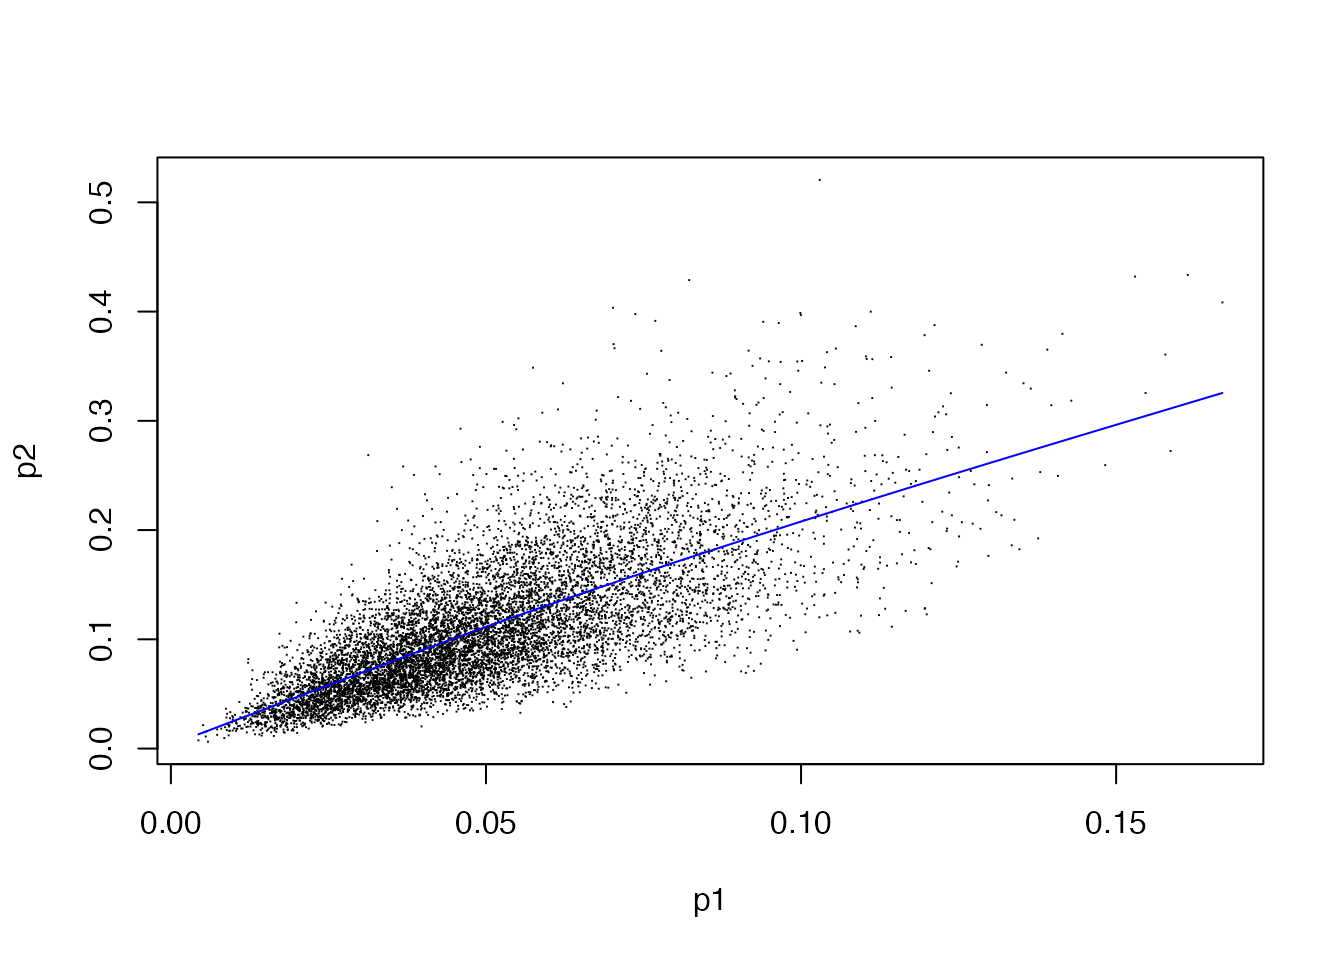
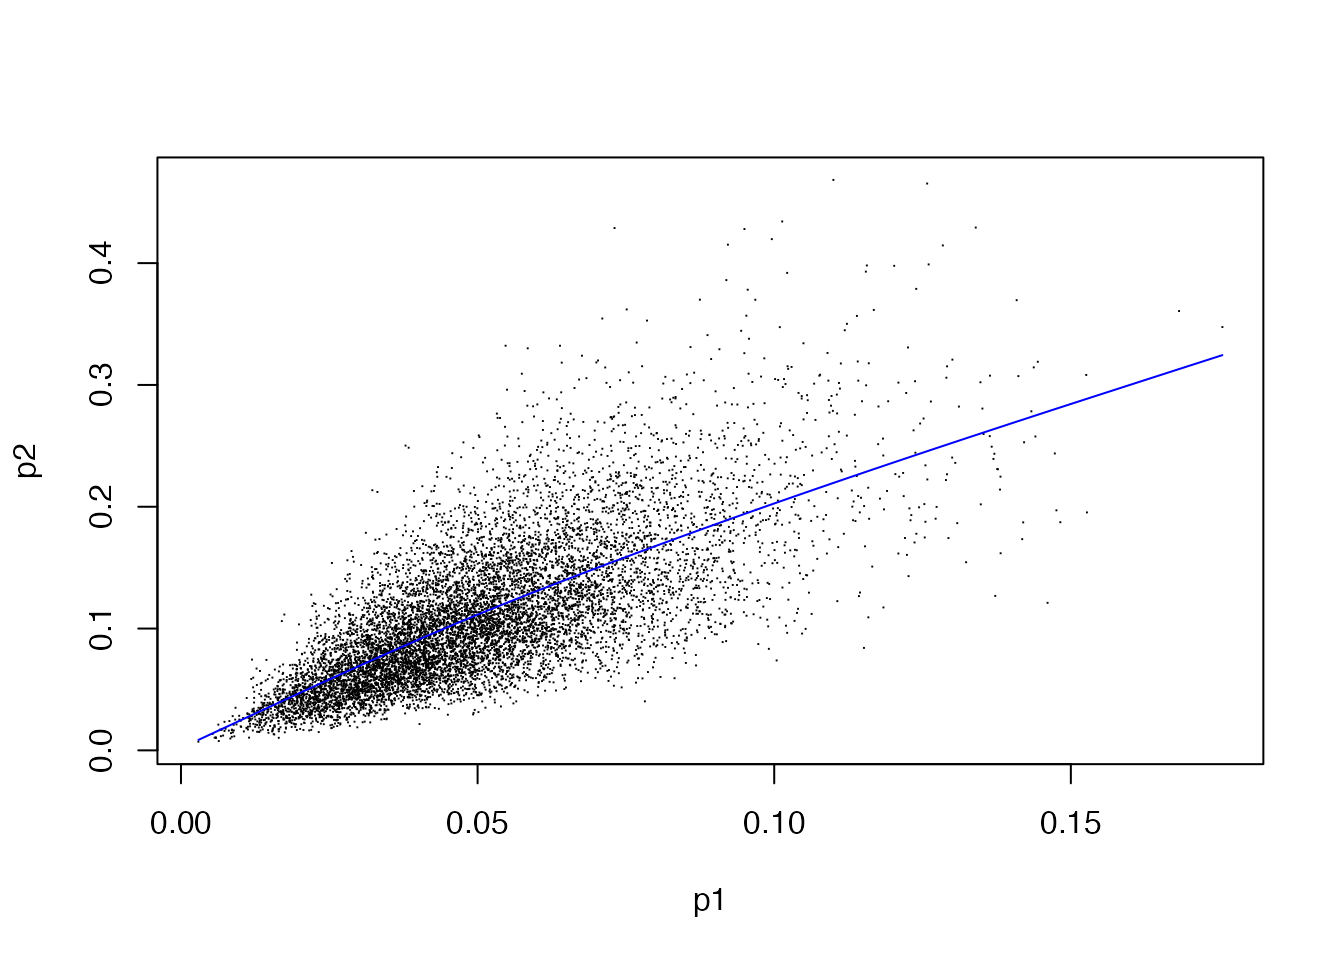
Built site for voi: 0.1@a2dfaf1

diff --git a/articles/voi.html b/articles/voi.html
@@ -474,8 +474,10 @@ A challenge of estimating EVPPI using GAMs is to define a GAM that is sufficient
 <code class="sourceCode R"><span><span class="fu"><a href="../reference/evsi.html">evsi</a></span><span class="op">(</span><span class="va">outputs_nb</span>, <span class="va">inputs</span>, study <span class="op">=</span> <span class="st">"normal_known"</span>, n<span class="op">=</span><span class="fl">10000</span>, pars <span class="op">=</span> <span class="st">"p1"</span>, method<span class="op">=</span><span class="st">"mm"</span>, Q<span class="op">=</span><span class="fl">30</span>,</span>
 <span>     model_fn <span class="op">=</span> <span class="va">model_fn_nb</span>, par_fn <span class="op">=</span> <span class="va">par_fn</span>,</span>
 <span>     analysis_args <span class="op">=</span> <span class="fu"><a href="https://rdrr.io/r/base/list.html" class="external-link">list</a></span><span class="op">(</span>prior_mean<span class="op">=</span><span class="fl">1</span>, prior_sd<span class="op">=</span><span class="fl">1</span>, sampling_sd<span class="op">=</span><span class="fl">1</span>, niter<span class="op">=</span><span class="fl">1000</span><span class="op">)</span><span class="op">)</span></span></code></pre></div>
-<pre><code><span><span class="co">##       n       evsi      evppi</span></span>
-<span><span class="co">## 1 10000 0.05094176 0.08210074</span></span></code></pre>
+<pre><code><span><span class="co">## Warning in evsi_mm_nb(outputs, inputs = inputs, pars = pars, datagen_fn =</span></span>
+<span><span class="co">## datagen_fn, : EVSI &gt; EVPPI may result from approximation error</span></span></code></pre>
+<pre><code><span><span class="co">##       n     evsi      evppi</span></span>
+<span><span class="co">## 1 10000 0.130057 0.08210074</span></span></code></pre>
 <p>The estimate of the EVSI is fairly close to the result from the regression method. The moment matching method also computes the regression-based estimate of the EVPPI, so this is returned alongside the EVSI estimate.</p>
 <p>A lot of randomness is involved in the computation for this method, thus there is some Monte Carlo error and it is not reproducible unless the seed is set. This error can be controlled somewhat by changing <span class="math inline">\(Q\)</span> (default 30) in the call to <code>evsi</code>, the number of posterior samples (default 1000) through the <code>niter</code> component of <code>analysis_args</code>, and the size of <code>outputs</code> and <code>inputs</code> (as in most VoI calculation methods).</p>
 </div>
@@ -487,12 +489,12 @@ A challenge of estimating EVPPI using GAMs is to define a GAM that is sufficient
 <p>Suppose that the aim of the analysis is to get a precise estimate of a quantity, rather than to make an explicit decision between policies. VoI methodology can still be used to determine which uncertain parameters the estimate is most sensitive to (EVPPI) or the improvements in precision expected from new data (EVSI). The expected value of information is the expected <em>reduction in variance</em> of the quantity of interest given the further information.</p>
 <p>We illustrate with an example. Suppose we want to estimate the prevalence of an infection. There are two sources of information. We have survey data which we think is biased, so that the true infection rate is higher than the rate of infection observed in the survey. We then have an expert judgement about the extent of bias in the data, and uncertainty associated with this.</p>
 <p>Firstly, suppose the survey observed 100 people and 5 of them were infected. Using a vague Beta(0,0) prior (flat on the logit scale), the posterior distribution of the survey infection rate <span class="math inline">\(p_1\)</span> is a Beta(5,95). We draw a random sample from this.</p>
-<div class="sourceCode" id="cb57"><pre class="downlit sourceCode r">
+<div class="sourceCode" id="cb58"><pre class="downlit sourceCode r">
 <code class="sourceCode R"><span><span class="va">p1</span> <span class="op">&lt;-</span> <span class="fu"><a href="https://rdrr.io/r/stats/Beta.html" class="external-link">rbeta</a></span><span class="op">(</span><span class="fl">10000</span>, <span class="fl">5</span>, <span class="fl">95</span><span class="op">)</span></span></code></pre></div>
 <p>Secondly, we guess that the true risk of being infected is twice the risk in the survey population, but we are uncertain about this relative risk. We might approximate our belief by placing a normal prior distribution on the log odds ratio <span class="math inline">\(\beta\)</span>, with a mean designed to reflect the doubled relative risk, and a variance that is high but concentrates the relative risk on positive values. Hence the true infection probability <span class="math inline">\(p_2\)</span> is a function of the two parameters <span class="math inline">\(p_1\)</span> and <span class="math inline">\(\beta\)</span>:</p>
 <p><span class="math display">\[p_2 = expit(logit(p_1) + \beta)\]</span>.</p>
 <p>We draw random samples from the current belief distributions of <span class="math inline">\(\beta\)</span> and <span class="math inline">\(p_2\)</span>, and then graphically compare the distributions of the infection probability <span class="math inline">\(p_1\)</span> in the survey data (black) and the true infection probability <span class="math inline">\(p_2\)</span> (red).</p>
-<div class="sourceCode" id="cb58"><pre class="downlit sourceCode r">
+<div class="sourceCode" id="cb59"><pre class="downlit sourceCode r">
 <code class="sourceCode R"><span><span class="va">beta</span> <span class="op">&lt;-</span> <span class="fu"><a href="https://rdrr.io/r/stats/Normal.html" class="external-link">rnorm</a></span><span class="op">(</span><span class="fl">10000</span>, <span class="fl">0.8</span>, <span class="fl">0.4</span><span class="op">)</span></span>
 <span><span class="va">p2</span> <span class="op">&lt;-</span> <span class="fu"><a href="https://rdrr.io/r/stats/Logistic.html" class="external-link">plogis</a></span><span class="op">(</span><span class="fu"><a href="https://rdrr.io/r/stats/Logistic.html" class="external-link">qlogis</a></span><span class="op">(</span><span class="va">p1</span><span class="op">)</span> <span class="op">+</span> <span class="va">beta</span><span class="op">)</span></span>
 <span><span class="fu"><a href="https://rdrr.io/r/graphics/plot.default.html" class="external-link">plot</a></span><span class="op">(</span><span class="fu"><a href="https://rdrr.io/r/stats/density.html" class="external-link">density</a></span><span class="op">(</span><span class="va">p1</span><span class="op">)</span>, lwd<span class="op">=</span><span class="fl">2</span>, xlim<span class="op">=</span><span class="fu"><a href="https://rdrr.io/r/base/c.html" class="external-link">c</a></span><span class="op">(</span><span class="fl">0</span>,<span class="fl">1</span><span class="op">)</span>, main<span class="op">=</span><span class="st">""</span><span class="op">)</span></span>
@@ -505,32 +507,32 @@ A challenge of estimating EVPPI using GAMs is to define a GAM that is sufficient
 <h3 id="evpi-and-evppi-for-estimation">EVPI and EVPPI for estimation<a class="anchor" aria-label="anchor" href="#evpi-and-evppi-for-estimation"></a>
 </h3>
 <p>The EVPI is trivially <span class="math inline">\(var(p_2)\)</span>, the variance under current information, which we can compute from the sample as</p>
-<div class="sourceCode" id="cb59"><pre class="downlit sourceCode r">
+<div class="sourceCode" id="cb60"><pre class="downlit sourceCode r">
 <code class="sourceCode R"><span><span class="fu"><a href="https://rdrr.io/r/stats/cor.html" class="external-link">var</a></span><span class="op">(</span><span class="va">p2</span><span class="op">)</span></span></code></pre></div>
-<pre><code><span><span class="co">## [1] 0.003566403</span></span></code></pre>
+<pre><code><span><span class="co">## [1] 0.003477815</span></span></code></pre>
 <p>A more interesting quantity is the EVPPI for a parameter. It describes the expected reduction in variance given perfect knowledge of a particular parameter. In this example, we compute the EVPPI for <span class="math inline">\(p_1\)</span> and <span class="math inline">\(\beta\)</span>, respectively, defined as</p>
 <p><span class="math display">\[EVPPI[p_1] = var(p_2) - E(var(p_2| p_1)\]</span> <span class="math display">\[EVPPI[\beta] = var(p_2) - E(var(p_2 | \beta)\]</span></p>
 <p>These can be computed using nonparametric regression, as described in <a href="https://doi.org/10.1080/01621459.2018.1562932" class="external-link">Jackson et al. 2019</a>. This is implemented in the function <code>evppivar</code> in the <code>voi</code> package.</p>
-<div class="sourceCode" id="cb61"><pre class="downlit sourceCode r">
+<div class="sourceCode" id="cb62"><pre class="downlit sourceCode r">
 <code class="sourceCode R"><span><span class="va">inputs</span> <span class="op">&lt;-</span> <span class="fu"><a href="https://rdrr.io/r/base/data.frame.html" class="external-link">data.frame</a></span><span class="op">(</span><span class="va">p1</span>, <span class="va">beta</span><span class="op">)</span></span>
 <span><span class="op">(</span><span class="va">evppi_beta</span> <span class="op">&lt;-</span> <span class="fu"><a href="../reference/evppivar.html">evppivar</a></span><span class="op">(</span><span class="va">p2</span>, <span class="va">inputs</span>, par<span class="op">=</span><span class="st">"beta"</span><span class="op">)</span><span class="op">)</span></span></code></pre></div>
 <pre><code><span><span class="co">##   pars       evppi</span></span>
-<span><span class="co">## 1 beta 0.001498406</span></span></code></pre>
-<div class="sourceCode" id="cb63"><pre class="downlit sourceCode r">
+<span><span class="co">## 1 beta 0.001444574</span></span></code></pre>
+<div class="sourceCode" id="cb64"><pre class="downlit sourceCode r">
 <code class="sourceCode R"><span><span class="op">(</span><span class="va">evppi_p1</span> <span class="op">&lt;-</span> <span class="fu"><a href="../reference/evppivar.html">evppivar</a></span><span class="op">(</span><span class="va">p2</span>, <span class="va">inputs</span>, par<span class="op">=</span><span class="st">"p1"</span><span class="op">)</span><span class="op">)</span></span></code></pre></div>
 <pre><code><span><span class="co">##   pars       evppi</span></span>
-<span><span class="co">## 1   p1 0.001915543</span></span></code></pre>
+<span><span class="co">## 1   p1 0.001814228</span></span></code></pre>
 <p>Hence a slightly greater improvement in variance is expected from knowing the true risk in the biased sample, compared to knowing the relative odds of infection.</p>
 <p>These EVPPI values are easier to interpret if they are converted to the scale of a <em>standard deviation</em>. If we subtract the EVPPI from the original variance of <span class="math inline">\(p_2\)</span> we get, for example <span class="math inline">\(E(var(p_2) | p_1)\)</span>. The square root of this is an estimate of what the standard deviation of <span class="math inline">\(p_2\)</span> would be if we learnt <span class="math inline">\(p_1\)</span> (note that is not exactly the <em>expected</em> SD remaining, since we cannot swap the order of the square root and expectation operators).</p>
-<div class="sourceCode" id="cb65"><pre class="downlit sourceCode r">
+<div class="sourceCode" id="cb66"><pre class="downlit sourceCode r">
 <code class="sourceCode R"><span><span class="fu"><a href="https://rdrr.io/r/base/MathFun.html" class="external-link">sqrt</a></span><span class="op">(</span><span class="fu"><a href="https://rdrr.io/r/stats/cor.html" class="external-link">var</a></span><span class="op">(</span><span class="va">p2</span><span class="op">)</span><span class="op">)</span> <span class="co"># or sd(p2)</span></span></code></pre></div>
-<pre><code><span><span class="co">## [1] 0.05971937</span></span></code></pre>
-<div class="sourceCode" id="cb67"><pre class="downlit sourceCode r">
+<pre><code><span><span class="co">## [1] 0.058973</span></span></code></pre>
+<div class="sourceCode" id="cb68"><pre class="downlit sourceCode r">
 <code class="sourceCode R"><span><span class="fu"><a href="https://rdrr.io/r/base/MathFun.html" class="external-link">sqrt</a></span><span class="op">(</span><span class="fu"><a href="https://rdrr.io/r/stats/cor.html" class="external-link">var</a></span><span class="op">(</span><span class="va">p2</span><span class="op">)</span> <span class="op">-</span> <span class="va">evppi_beta</span><span class="op">$</span><span class="va">evppi</span><span class="op">)</span></span></code></pre></div>
-<pre><code><span><span class="co">## [1] 0.04547524</span></span></code></pre>
-<div class="sourceCode" id="cb69"><pre class="downlit sourceCode r">
+<pre><code><span><span class="co">## [1] 0.04509148</span></span></code></pre>
+<div class="sourceCode" id="cb70"><pre class="downlit sourceCode r">
 <code class="sourceCode R"><span><span class="fu"><a href="https://rdrr.io/r/base/MathFun.html" class="external-link">sqrt</a></span><span class="op">(</span><span class="fu"><a href="https://rdrr.io/r/stats/cor.html" class="external-link">var</a></span><span class="op">(</span><span class="va">p2</span><span class="op">)</span> <span class="op">-</span> <span class="va">evppi_p1</span><span class="op">$</span><span class="va">evppi</span><span class="op">)</span></span></code></pre></div>
-<pre><code><span><span class="co">## [1] 0.04063079</span></span></code></pre>
+<pre><code><span><span class="co">## [1] 0.04078709</span></span></code></pre>
 <p>Hence we would expect to reduce the SD of <span class="math inline">\(p_1\)</span> to around 2/3 of its original value by learning <span class="math inline">\(p_1\)</span> or <span class="math inline">\(\beta\)</span>.</p>
 </div>
 <div class="section level3">
@@ -538,22 +540,22 @@ A challenge of estimating EVPPI using GAMs is to define a GAM that is sufficient
 </h3>
 <p>EVPPI is estimated here by <em>nonparametric regression</em> of the output on the input. Recall that the method of <a href="https://doi.org/10.1177/0272989X13505910" class="external-link">Strong et al. (2013)</a> was used in <code>evppi</code> for models with decisions. <a href="https://doi.org/10.1080/01621459.2018.1562932" class="external-link">Jackson et al. 2019</a> showed how this method applied in a wider class of problems, including models for estimation.</p>
 <p>To estimate the expected reduction in variance in <span class="math inline">\(p_2\)</span>, given knowledge of <span class="math inline">\(p_1\)</span>, the <code>evppivar</code> function fits a regression model with <code>p2</code> as the outcome, and <code>p1</code> as the single predictor. A generalized additive model based on splines is fitted using the <code>gam</code> function from the <code>mgcv</code> package.</p>
-<div class="sourceCode" id="cb71"><pre class="downlit sourceCode r">
+<div class="sourceCode" id="cb72"><pre class="downlit sourceCode r">
 <code class="sourceCode R"><span><span class="fu"><a href="https://rdrr.io/r/graphics/plot.default.html" class="external-link">plot</a></span><span class="op">(</span>x<span class="op">=</span><span class="va">p1</span>, y<span class="op">=</span><span class="va">p2</span>, pch<span class="op">=</span><span class="st">"."</span><span class="op">)</span></span>
 <span><span class="va">mod</span> <span class="op">&lt;-</span> <span class="fu">mgcv</span><span class="fu">::</span><span class="fu"><a href="https://rdrr.io/pkg/mgcv/man/gam.html" class="external-link">gam</a></span><span class="op">(</span><span class="va">p2</span> <span class="op">~</span> <span class="fu">te</span><span class="op">(</span><span class="va">p1</span>, bs<span class="op">=</span><span class="st">"cr"</span><span class="op">)</span><span class="op">)</span></span>
 <span><span class="va">p1fit</span> <span class="op">&lt;-</span> <span class="fu"><a href="https://rdrr.io/r/stats/fitted.values.html" class="external-link">fitted</a></span><span class="op">(</span><span class="va">mod</span><span class="op">)</span></span>
 <span><span class="fu"><a href="https://rdrr.io/r/graphics/lines.html" class="external-link">lines</a></span><span class="op">(</span><span class="fu"><a href="https://rdrr.io/r/base/sort.html" class="external-link">sort</a></span><span class="op">(</span><span class="va">p1</span><span class="op">)</span>, <span class="va">p1fit</span><span class="op">[</span><span class="fu"><a href="https://rdrr.io/r/base/order.html" class="external-link">order</a></span><span class="op">(</span><span class="va">p1</span><span class="op">)</span><span class="op">]</span>, col<span class="op">=</span><span class="st">"blue"</span><span class="op">)</span></span></code></pre></div>
 <p><img src="voi_files/figure-html/unnamed-chunk-36-1.png" width="672"></p>
 <p>Taking the variance of the <em>residuals</em> from this regression (observed minus fitted values) produces an estimate of <span class="math inline">\(E(var(p_2 | p_1 = x))\)</span>, intuitively, the expected variance given knowledge of <span class="math inline">\(p_1\)</span>, which, when subtracted from the variance of <span class="math inline">\(p_2\)</span>, gives the EVPPI.</p>
-<div class="sourceCode" id="cb72"><pre class="downlit sourceCode r">
+<div class="sourceCode" id="cb73"><pre class="downlit sourceCode r">
 <code class="sourceCode R"><span><span class="va">p1res</span> <span class="op">&lt;-</span> <span class="va">p2</span> <span class="op">-</span> <span class="va">p1fit</span></span>
 <span><span class="fu"><a href="https://rdrr.io/r/stats/cor.html" class="external-link">var</a></span><span class="op">(</span><span class="va">p2</span><span class="op">)</span> <span class="op">-</span> <span class="fu"><a href="https://rdrr.io/r/stats/cor.html" class="external-link">var</a></span><span class="op">(</span><span class="va">p1res</span><span class="op">)</span></span></code></pre></div>
-<pre><code><span><span class="co">## [1] 0.001916577</span></span></code></pre>
+<pre><code><span><span class="co">## [1] 0.001815615</span></span></code></pre>
 <p>This agrees (up to Monte Carlo error) with the value produced by <code>evppivar</code>, which is obtained by a closely-related method, as the variance of the fitted values from this regression. This is equal to the total variance minus the variance of the residuals, through the “law of total variance”:</p>
 <p><span class="math display">\[var(Y) - E_{X}\left[var_{Y| X}(Y |X)\right] = var_{X} \left[E_{Y|X}(Y|X)\right]\]</span></p>
-<div class="sourceCode" id="cb74"><pre class="downlit sourceCode r">
+<div class="sourceCode" id="cb75"><pre class="downlit sourceCode r">
 <code class="sourceCode R"><span><span class="fu"><a href="https://rdrr.io/r/stats/cor.html" class="external-link">var</a></span><span class="op">(</span><span class="va">p1fit</span><span class="op">)</span></span></code></pre></div>
-<pre><code><span><span class="co">## [1] 0.001915543</span></span></code></pre>
+<pre><code><span><span class="co">## [1] 0.001814228</span></span></code></pre>
 </div>
 <div class="section level3">
 <h3 id="evsi-for-estimation">EVSI for estimation<a class="anchor" aria-label="anchor" href="#evsi-for-estimation"></a>
@@ -566,21 +568,21 @@ A challenge of estimating EVPPI using GAMs is to define a GAM that is sufficient
 <li><p><code>study="binary"</code> indicates that the proposed study consists of a binary outcome observed from <code>n</code> individuals.<br></p></li>
 <li><p><code>pars="p1"</code> indicates which input parameter is informed by the study, in other words, which parameter is assumed to generate the study data.</p></li>
 </ul>
-<div class="sourceCode" id="cb76"><pre class="downlit sourceCode r">
+<div class="sourceCode" id="cb77"><pre class="downlit sourceCode r">
 <code class="sourceCode R"><span><span class="fu"><a href="../reference/evsivar.html">evsivar</a></span><span class="op">(</span><span class="va">p2</span>, <span class="va">inputs</span>, study <span class="op">=</span> <span class="st">"binary"</span>, pars<span class="op">=</span><span class="st">"p1"</span>, n<span class="op">=</span><span class="fu"><a href="https://rdrr.io/r/base/c.html" class="external-link">c</a></span><span class="op">(</span><span class="fl">100</span>,<span class="fl">1000</span>,<span class="fl">10000</span><span class="op">)</span><span class="op">)</span></span></code></pre></div>
-<pre><code><span><span class="co">##       n         evsi</span></span>
-<span><span class="co">## 1   100 0.0009579006</span></span>
-<span><span class="co">## 2  1000 0.0017476769</span></span>
-<span><span class="co">## 3 10000 0.0018962755</span></span></code></pre>
+<pre><code><span><span class="co">##       n        evsi</span></span>
+<span><span class="co">## 1   100 0.000886695</span></span>
+<span><span class="co">## 2  1000 0.001675808</span></span>
+<span><span class="co">## 3 10000 0.001798624</span></span></code></pre>
 <p>As the proposed sample sizes increase, the expected value of sample information informing <span class="math inline">\(p_1\)</span> converges to the EVPPI, the expected value of perfect information about <span class="math inline">\(p_1\)</span>.</p>
 <p>Alternatively, suppose we were able to collect information about the <em>unbiased</em> population, whose infection prevalence is <span class="math inline">\(p_2\)</span>. That is, suppose we surveyed <span class="math inline">\(n\)</span> individuals, each infected with probability <span class="math inline">\(p_2\)</span>. In this case, we can compute the EVSI by using <code>evsivar</code> with the model <code>inputs</code> defined to equal the model outputs, as follows:</p>
-<div class="sourceCode" id="cb78"><pre class="downlit sourceCode r">
+<div class="sourceCode" id="cb79"><pre class="downlit sourceCode r">
 <code class="sourceCode R"><span><span class="va">inputs_p2</span> <span class="op">=</span> <span class="fu"><a href="https://rdrr.io/r/base/data.frame.html" class="external-link">data.frame</a></span><span class="op">(</span>p2 <span class="op">=</span> <span class="va">p2</span><span class="op">)</span></span>
 <span><span class="fu"><a href="../reference/evsivar.html">evsivar</a></span><span class="op">(</span><span class="va">p2</span>, inputs<span class="op">=</span><span class="va">inputs_p2</span>, study <span class="op">=</span> <span class="st">"binary"</span>, pars<span class="op">=</span><span class="st">"p2"</span>, n<span class="op">=</span><span class="fu"><a href="https://rdrr.io/r/base/c.html" class="external-link">c</a></span><span class="op">(</span><span class="fl">100</span>, <span class="fl">1000</span>, <span class="fl">10000</span><span class="op">)</span><span class="op">)</span></span></code></pre></div>
 <pre><code><span><span class="co">##       n        evsi</span></span>
-<span><span class="co">## 1   100 0.002808475</span></span>
-<span><span class="co">## 2  1000 0.003471948</span></span>
-<span><span class="co">## 3 10000 0.003556959</span></span></code></pre>
+<span><span class="co">## 1   100 0.002763883</span></span>
+<span><span class="co">## 2  1000 0.003388008</span></span>
+<span><span class="co">## 3 10000 0.003468523</span></span></code></pre>
 <p>The unbiased data is clearly more valuable than the biased data, with double the variance reductions from biased data of the same sample size. As the sample size increases, the value converges to the EVPI, hence (in the asymptote) we will eliminate all uncertainty about our quantity of interest <span class="math inline">\(p_2\)</span>.</p>
 </div>
 </div>
